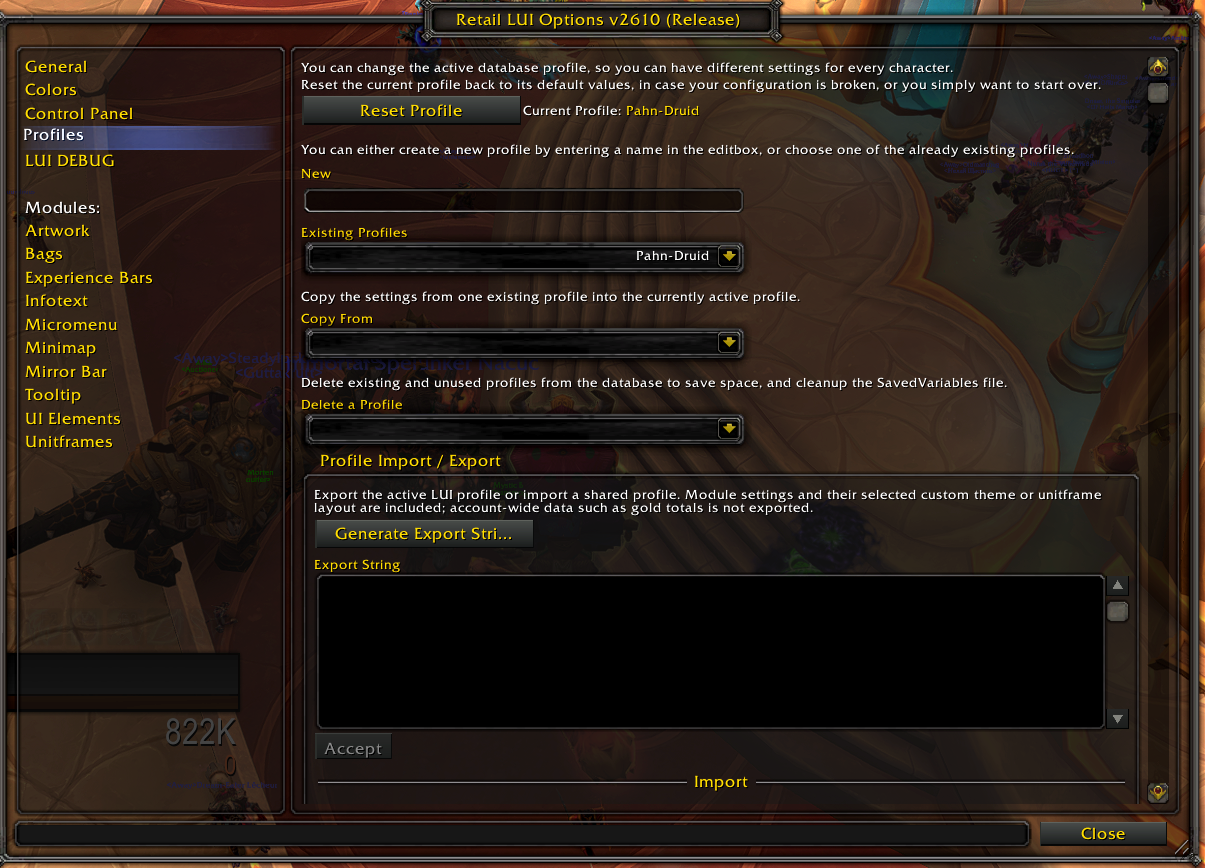
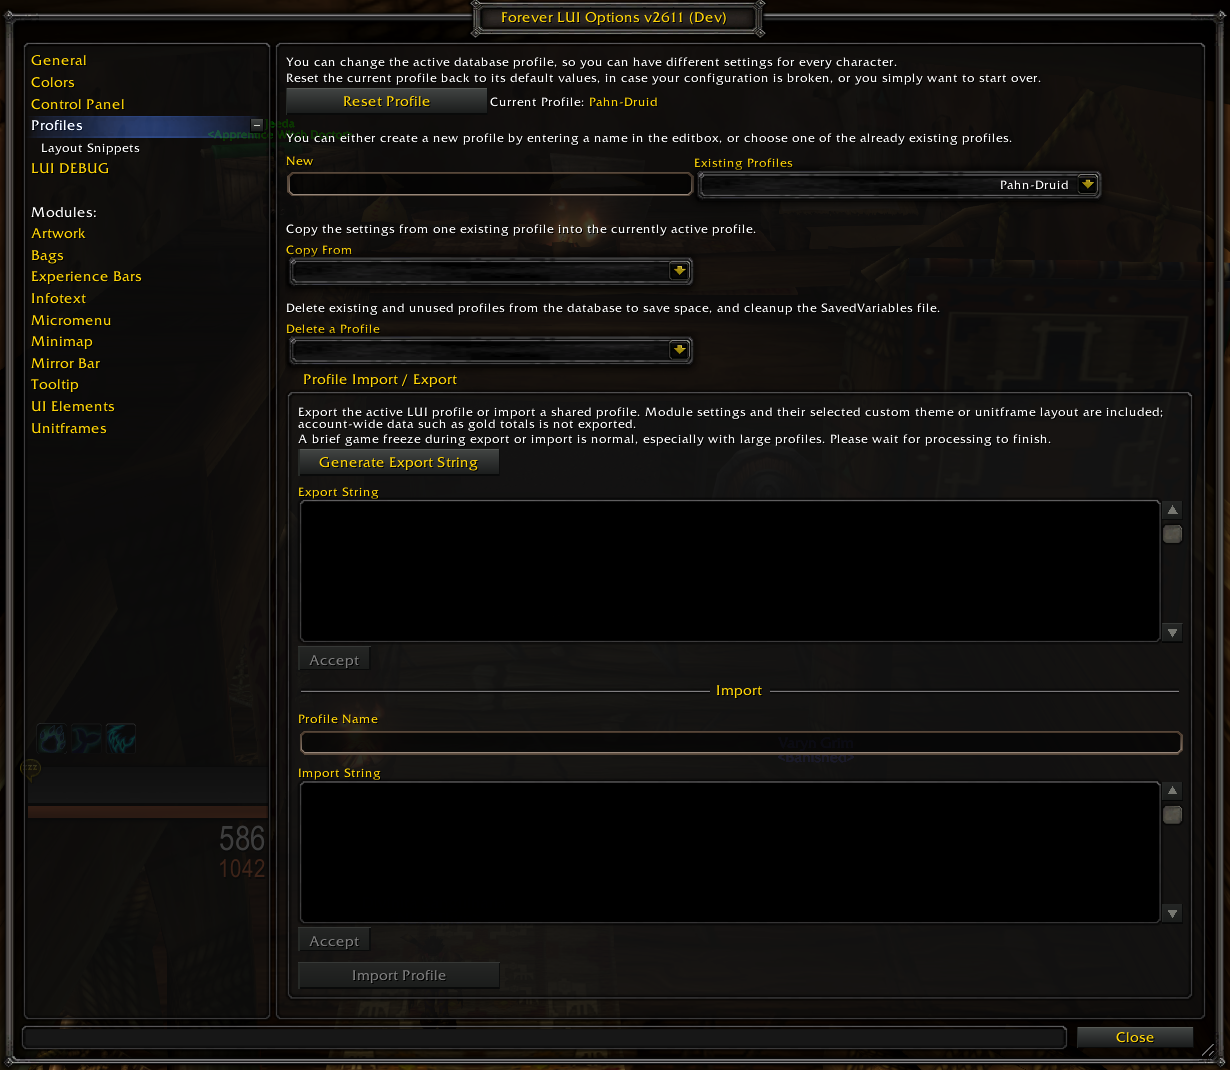
Docs: show complete profile import and export controls

diff --git a/docs/index.html b/docs/index.html
@@ -88,14 +88,15 @@
 <p>Use <strong>Profiles → Profile Import / Export</strong> to share a complete setup or copy it between Retail and Forever. Update LUI in both clients first.</p>
 <ol><li>Open <code>/lui</code> → <strong>Profiles</strong> and check <strong>Current Profile</strong>.</li>
 <li>Scroll to <strong>Profile Import / Export</strong> and click <strong>Generate Export String</strong>.</li>
-<li>Click inside <strong>Export String</strong>. Press <kbd>Ctrl+A</kbd>, then <kbd>Ctrl+C</kbd> to copy it completely.</li></ol><figure>
-<figcaption>Profiles: current profile and export controls</figcaption><a aria-label="Open screenshot: Profiles: current profile and export controls" href="assets/profiles.webp" rel="noopener" target="_blank"><img alt="LUI Profiles page showing Profile Import and Export" decoding="async" height="868" loading="lazy" src="assets/profiles.webp" style="max-width:1205px" width="1205"/></a>
-</figure>
+<li>Click inside <strong>Export String</strong>. Press <kbd>Ctrl+A</kbd>, then <kbd>Ctrl+C</kbd> to copy it completely.</li></ol>
 <h3 id="profile-import">Import a complete profile</h3>
 <p>Scroll below <strong>Export String</strong> to find the <strong>Import</strong> section.</p>
 <ol><li>Enter a new <strong>Profile Name</strong> under Import and press <kbd>Enter</kbd>. A new name preserves your existing profile.</li>
 <li>Paste the complete string into <strong>Import String</strong> and click <strong>Accept</strong> below the text box.</li>
 <li>Outside combat, click <strong>Import Profile</strong>. LUI selects the imported profile and reloads.</li></ol>
+<figure>
+<figcaption>Profiles: profile selection, copying, export and import</figcaption><a aria-label="Open screenshot: Profiles" href="assets/profiles.webp" rel="noopener" target="_blank"><img alt="LUI Profiles page showing Current Profile, New, Copy From, Export String, and the Import section with Profile Name, Import String, Accept and Import Profile" decoding="async" height="1070" loading="lazy" src="assets/profiles.webp" style="max-width:1230px" width="1230"/></a>
+</figure>
 <div class="callout note"><strong>Copying between clients</strong><p>Copy From lists profiles in the current client. Use export/import between clients. The imported copy is independent; later changes are not synchronized.</p></div>
 <div class="callout note"><strong>Wait for profile processing to finish</strong><p>Exporting or importing a large profile or snippet can briefly freeze the game while LUI processes the settings. Wait for it to finish.</p></div>
 <h3 id="layout-snippets">Share selected settings with Layout Snippets</h3>
